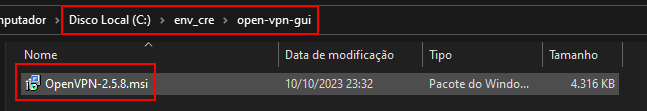
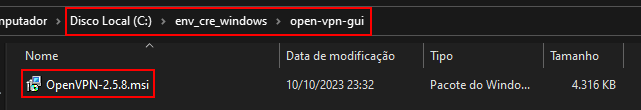
readme openvpn and hosts

diff --git a/README.md b/README.md
@@ -8,21 +8,53 @@
 * Visual Studio Lib's
 
 
-### Configuração do OPENVPN
+## Instalação e Configuração do OpenVPN
+* Navegue até a pasta "C:\env_cre_windows\open-vpn-gui" e abra o arquivo "OpenVPN-2.5.8.msi".
+![openvpn-file-path](./just-ignore/images/openvpn/openvpn_install_file.png)
 
-### Configuração do Hosts
+* Faça a instalação do OpenVPN normalmente (next, next, next ... não tem segredo.)
+* Após instalado clique ou pressione a bandeirinha do windows no seu teclado e digite "OpenVPN", e abra a aplicação.
+![openvpn-search](./just-ignore/images/openvpn/openvpn_search.png)
+
+* Ao abrir a aplicação você receberá uma notificação informando que não foram localizados arquivos de configuração, aqui é só clicar em "OK".
+![openvpn-no-configuration](./just-ignore/images/openvpn/openvpn_no_configuration.png)
+
+* Após clicar em "OK" na tela anterior, o programa será aberto, porem ficará somente com um icone próximo ao relógio do windows.
+
+* Clique com o botão direito do mouse no icone da VPN próximo ao relógio do windows navegue por "Import" e clique em "Importar arquivo".
+![openvpn-icon-import-configuration](./just-ignore/images/openvpn/openvpn_icon_import_configuration.png)
+
+* Ao Clicar em "Importar arquivo" uma nova tela vai abrir pendindo pra localizar o arquivo de configuração (.ovpn), localize o arquivo, selecione e clique em "Abrir".
+![openvpn-open-configuration](./just-ignore/images/openvpn/openvpn_open_configuration.png)
+
+* Uma notificação de confirmação vai aparecer no canto inferior direito da sua tela, informando que o arquivo foi importado com sucesso.
+![openvpn-import-notification](./just-ignore/images/openvpn/openvpn_import_notification.png)
+
+* Clique com o botão direito do mouse no icone da VPN próximo ao relógio do windows e clique em "Conectar".
+![openvpn-connect-button](./just-ignore/images/openvpn/openvpn_connect_button.png)
+
+* Após clicar em "Conectar" uma nova tela do OpenVPN será aberta, nessa tela insira o seu usuário e senha fornecidos pela CBYK, marque a caixinha "Salvar senha" e clique em "OK".
+![openvpn-user-pass](./just-ignore/images/openvpn/openvpn_user_pass.png)
+
+* Após clicar em "OK" a VPN tentará estabelecer uma conexão com o servidor e após conectar com sucesso você vai receber uma notificação no canto inferior direito da sua tela, informando e o icone da VPN ficará verde.
+![openvpn](./just-ignore/images/openvpn/openvpn_connected_successfully.png)
+
+## Configuração do Hosts
 * Navegue ate a pasta "C:\Windows\System32\drivers\etc".
 * Nessa pasta selecione o arquivo "hosts" e abra com seu editor preferido em modo administrador.
-* Copie o conteudo abaixo e cole no seu arquivos hosts
+![hosts-path](./just-ignore/images/hosts/hosts_path.png)
 
-<div style="background-color: #f0f0f1; padding: 10px; border-radius:5px;color:#000000;font-weight: bold;">
-    <div>
-        <div># ADICIONADOS MANUALMENTE</div>
-        <div>10.0.162.162    jenkins.local</div>
-        <div>10.0.158.201    atf.local</div>
-        <div>10.0.162.218    gitlab.local</div>
-        <div>10.0.127.54     git.adobenet.com.br</div>
-        <div>10.0.158.126    npm-corp.local</div>
-        <div>10.0.126.163    webmail.local</div>
-    </div>
-</div>
+* Copie o conteudo abaixo e cole no final do seu arquivos hosts deixando uma ou duas linhas de espaço.
+
+        # ADICIONADOS MANUALMENTE
+        10.0.162.162    jenkins.local
+        10.0.158.201    atf.local
+        10.0.162.218    gitlab.local
+        10.0.127.54     git.adobenet.com.br
+        10.0.158.126    npm-corp.local
+        10.0.126.163    webmail.local
+
+* O seu arquivo hosts deverá ficar desse jeito:
+![hosts-example](./just-ignore/images/hosts/hosts_add_config.png)
+
+* Salve o arquivo, feche e abra novamente no editor para assegurar que o conteúdo foi escrito de fato no arquivo.
